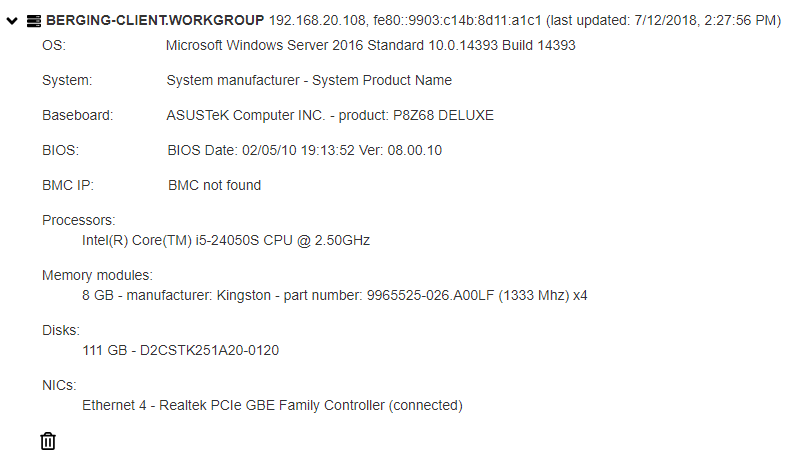
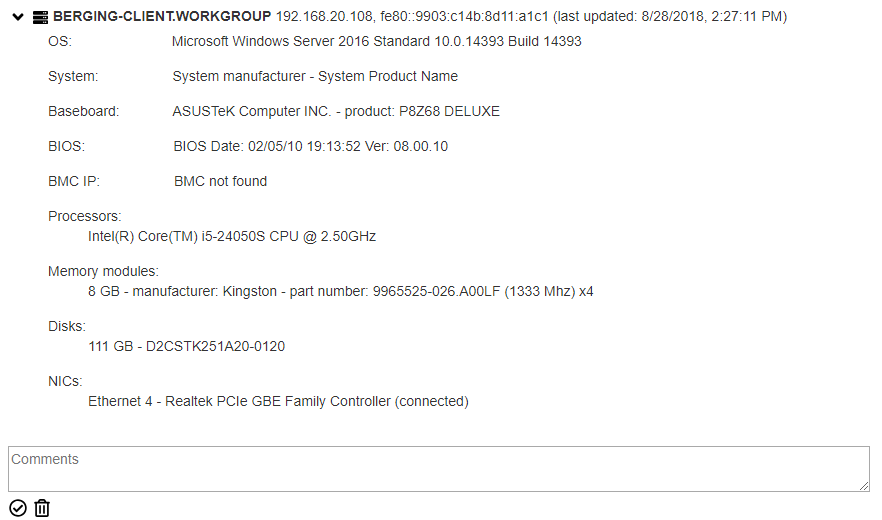
0.3

diff --git a/index.html b/index.html
@@ -1,1 +1,1 @@
-<!DOCTYPE html><html><head><title>Sizing Servers Lab - Beholder (alpha)</title><link rel="shortcut icon" href="favicon.ico" type="image/x-icon"><link rel="icon" href="favicon.ico" type="image/x-icon"><meta name="viewport" content="width=device-width,initial-scale=1"><link rel="stylesheet" type="text/css" href="css/main.min.css"><link rel="stylesheet" type="text/css" href="css/bootstrap.3.3.6.min.css"><script type="text/javascript" src="js/jquery-2.2.3.min.js"></script><script type="text/javascript" src="js/bootstrap.3.3.6.min.js"></script><script type="text/javascript" src="js/main.min.js"></script></head><body><div class="preloader-wrapper"><div class="preloader"><img src="img/preloader.gif"></div></div><div id="header"><div id="menu"><span class="menuItem"><h1>Beholder (alpha)</h1><label>Hardware inventorization by <a href="https://www.sizingservers.be" target="_blank">Sizing Servers Lab</a> <a href="https://github.com/sizingservers/sizingservers.beholder.frontend" target="_blank">(GitHub)</a></label>&nbsp; <img src="img/cookie-small.png" title="This tool uses no cookies!"><br>API endpoint: <span id="apiEndpoint">?</span> </span><button class="btn btn-default menuItem" id="collapse" type="button">(un)Collapse all</button> <button class="btn btn-default-menuItem" id="addvhost" type="button">Add VMware host</button></div><div id="error" class="tools"><label id="errorLabel"></label><img id="errorClose" src="img/times.svg"></div><div id="addEditVHost" class="tools">IP or hostname: <input id="vhIpOrHostname" type="text"> Username: <input id="vhUsername" type="text"> Password: <input id="vhPassword" type="password"> VMs: <input id="vhVMs" placeholder="Comma delimited hostnames" type="text"> <button class="btn btn-default-menuItem" id="vhApply" type="button">Apply</button> <button class="btn btn-default-menuItem" id="vhCancel" type="button">Cancel</button></div></div><div id="container"></div></body></html>
+<!DOCTYPE html><html><head><title>Sizing Servers Lab - Beholder (alpha)</title><link rel="shortcut icon" href="favicon.ico" type="image/x-icon"><link rel="icon" href="favicon.ico" type="image/x-icon"><meta name="viewport" content="width=device-width,initial-scale=1"><link rel="stylesheet" type="text/css" href="css/main.min.css"><link rel="stylesheet" type="text/css" href="css/bootstrap.3.3.6.min.css"><script type="text/javascript" src="js/jquery-2.2.3.min.js"></script><script type="text/javascript" src="js/bootstrap.3.3.6.min.js"></script><script type="text/javascript" src="js/main.js"></script></head><body><div class="preloader-wrapper"><div class="preloader"><img src="img/preloader.gif"></div></div><div id="header"><div id="menu"><span class="menuItem"><h1>Beholder (alpha)</h1><label>Hardware inventorization by <a href="https://www.sizingservers.be" target="_blank">Sizing Servers Lab</a> <a href="https://github.com/sizingservers/sizingservers.beholder.frontend" target="_blank">(GitHub)</a></label>&nbsp; <img src="img/cookie-small.png" title="This tool uses no cookies!"><br>API endpoint: <span id="apiEndpoint">?</span> </span><button class="btn btn-default menuItem" id="collapse" type="button">(un)Collapse all</button> <button class="btn btn-default-menuItem" id="addvhost" type="button">Add VMware host</button></div><div id="error" class="tools"><label id="errorLabel"></label><img id="errorClose" src="img/times.svg"></div><div id="addEditVHost" class="tools">IP or hostname: <input id="vhIpOrHostname" type="text"> Username: <input id="vhUsername" type="text"> Password: <input id="vhPassword" type="password"> VMs: <input id="vhVMs" placeholder="Comma delimited hostnames" type="text"> <button class="btn btn-default-menuItem" id="vhApply" type="button">Apply / re-enable</button> <button class="btn btn-default-menuItem" id="vhCancel" type="button">Cancel</button></div></div><div id="container"></div></body></html>

diff --git a/js/main.js b/js/main.js
@@ -182,11 +182,11 @@ var vhSystemInformation = function (siVHJson) {
             } catch (ignoreEx) { }
 
             if (!siVHJson['responsive']) {
-                throw $(_siVHHostname).text() + ' NOT RESPONDING';
+                throw $(_siVHHostname).text() + ' > disabled because not responding';
             }
         } catch (ex) {
             $(_siVHHostname).text(ex);
-            $(_siVHTimestamp).text('(last fetch attempt: ' + (new Date()).toLocaleString() + ')');
+            $(_siVHTimestamp).text('-- uncollapse, edit connection info (...), click \"Apply / re-enable\" wait for refresh (last fetch attempt: ' + (new Date()).toLocaleString() + ')');
             handleError("Failed updating system information (vhost reachable?). See the console for details.", ex);
         };
     };
@@ -390,12 +390,12 @@ var systemInformation = function (siJson, containerId) {
             } catch (ignoreEx) { }
 
             if (!siJson['responsive']) {
-                throw $(_siHostname).text() + ' NOT RESPONDING';
+                throw $(_siHostname).text() + ' > not responding';
             }
         } catch (ex) {
-            $(_siHostname).text(ex);           
+            $(_siHostname).text(ex);
             $(_siTimestamp).text('(last fetch attempt: ' + (new Date()).toLocaleString() + ')');
-             handleError("Failed updating system information (machine reachable?). See the console for details.", ex);
+            handleError("Failed updating system information (machine reachable?). See the console for details.", ex);
         };
     };
 
@@ -533,7 +533,8 @@ var addEditVHost = function () {
         'hostname': $.trim($('#vhIpOrHostname').val()),
         'vmHostnames': $.trim($('#vhVMs').val()).replace(/ /g, '').replace(/\t/g, '').replace(/,/g, '\t'),
         'username': $.trim($('#vhUsername').val()),
-        'password': $('#vhPassword').val()
+        'password': $('#vhPassword').val(),
+        'enabled': 1
     };
     if (!vmwareHostConnectionInfo['username'].length) {
         vmwareHostConnectionInfo['username'] = ".&DO_NOT_UPDATE_Credentials&.";
@@ -552,6 +553,15 @@ var addEditVHost = function () {
                 dataType: "json",
                 type: 'POST'
             }).success(function () {
+                systemInformations = [];
+                vhSystemInformations = [];
+                newSystemInformationsCount = 0;
+                collapsed = true;
+                //To make sure that comments are updated server-side
+                commentsFocus = false;
+
+                $('#container').empty();
+
                 refresh();
             });
         }

diff --git a/index.notmin.html b/index.notmin.html
@@ -10,7 +10,7 @@
     <link rel="stylesheet" type="text/css" href="css/bootstrap.3.3.6.min.css">
     <script type="text/javascript" src="js/jquery-2.2.3.min.js"></script>
     <script type="text/javascript" src="js/bootstrap.3.3.6.min.js"></script>
-    <script type="text/javascript" src="js/main.min.js"></script>
+    <script type="text/javascript" src="js/main.js"></script>
 </head>
 
 <body>
@@ -45,7 +45,7 @@
             <input id="vhUsername" type="text" /> Password:
             <input id="vhPassword" type="password" /> VMs:
             <input id="vhVMs" placeholder="Comma delimited hostnames" type="text" />
-            <button class="btn btn-default-menuItem" id="vhApply" type="button">Apply</button>
+            <button class="btn btn-default-menuItem" id="vhApply" type="button">Apply / re-enable</button>
             <button class="btn btn-default-menuItem" id="vhCancel" type="button">Cancel</button>
         </div>
     </div>

diff --git a/readme.md b/readme.md
@@ -26,6 +26,9 @@ The front-end app visualizes all that info.
 
 <a name="version_history"></a>
 ## Version history
+**2018-08-28** - **version 0.3**: Comments and more robust.  
+*Compatible with sizingservers.beholder.dnfapi 0.3*
+
 **2018-07-12** - **version 0.2**: First robust implementation.  
 *Compatible with sizingservers.beholder.dnfapi 0.2*
 
